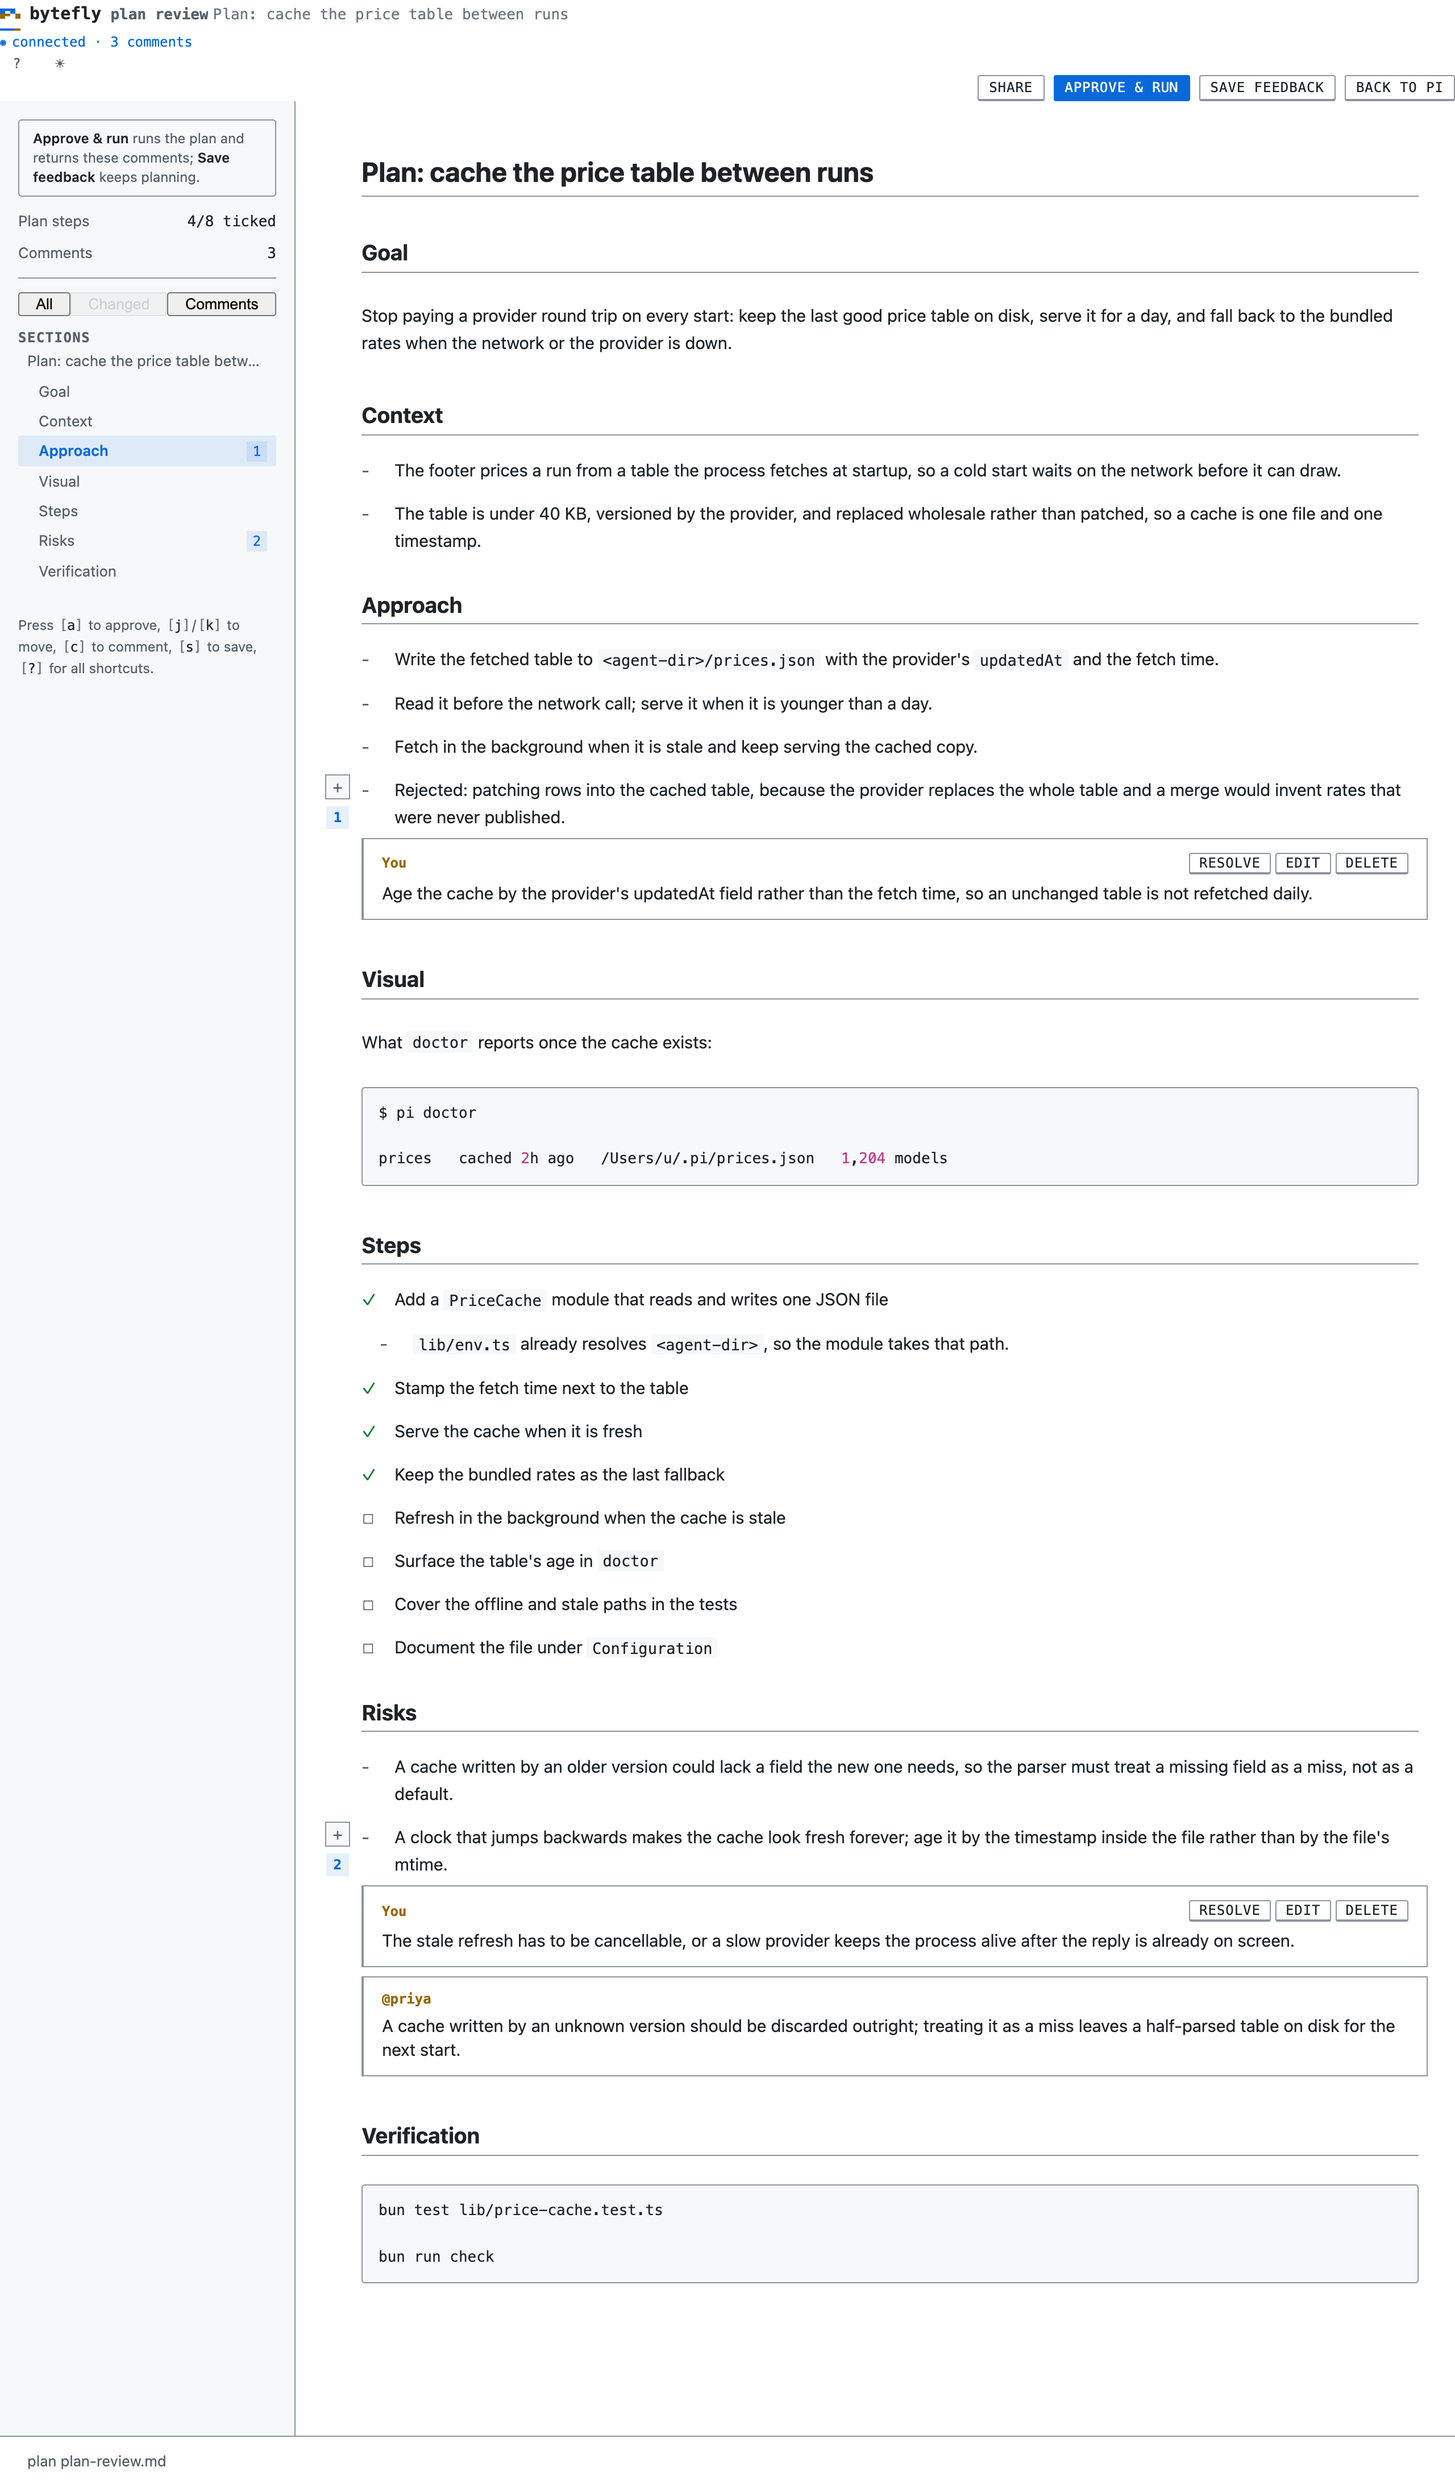
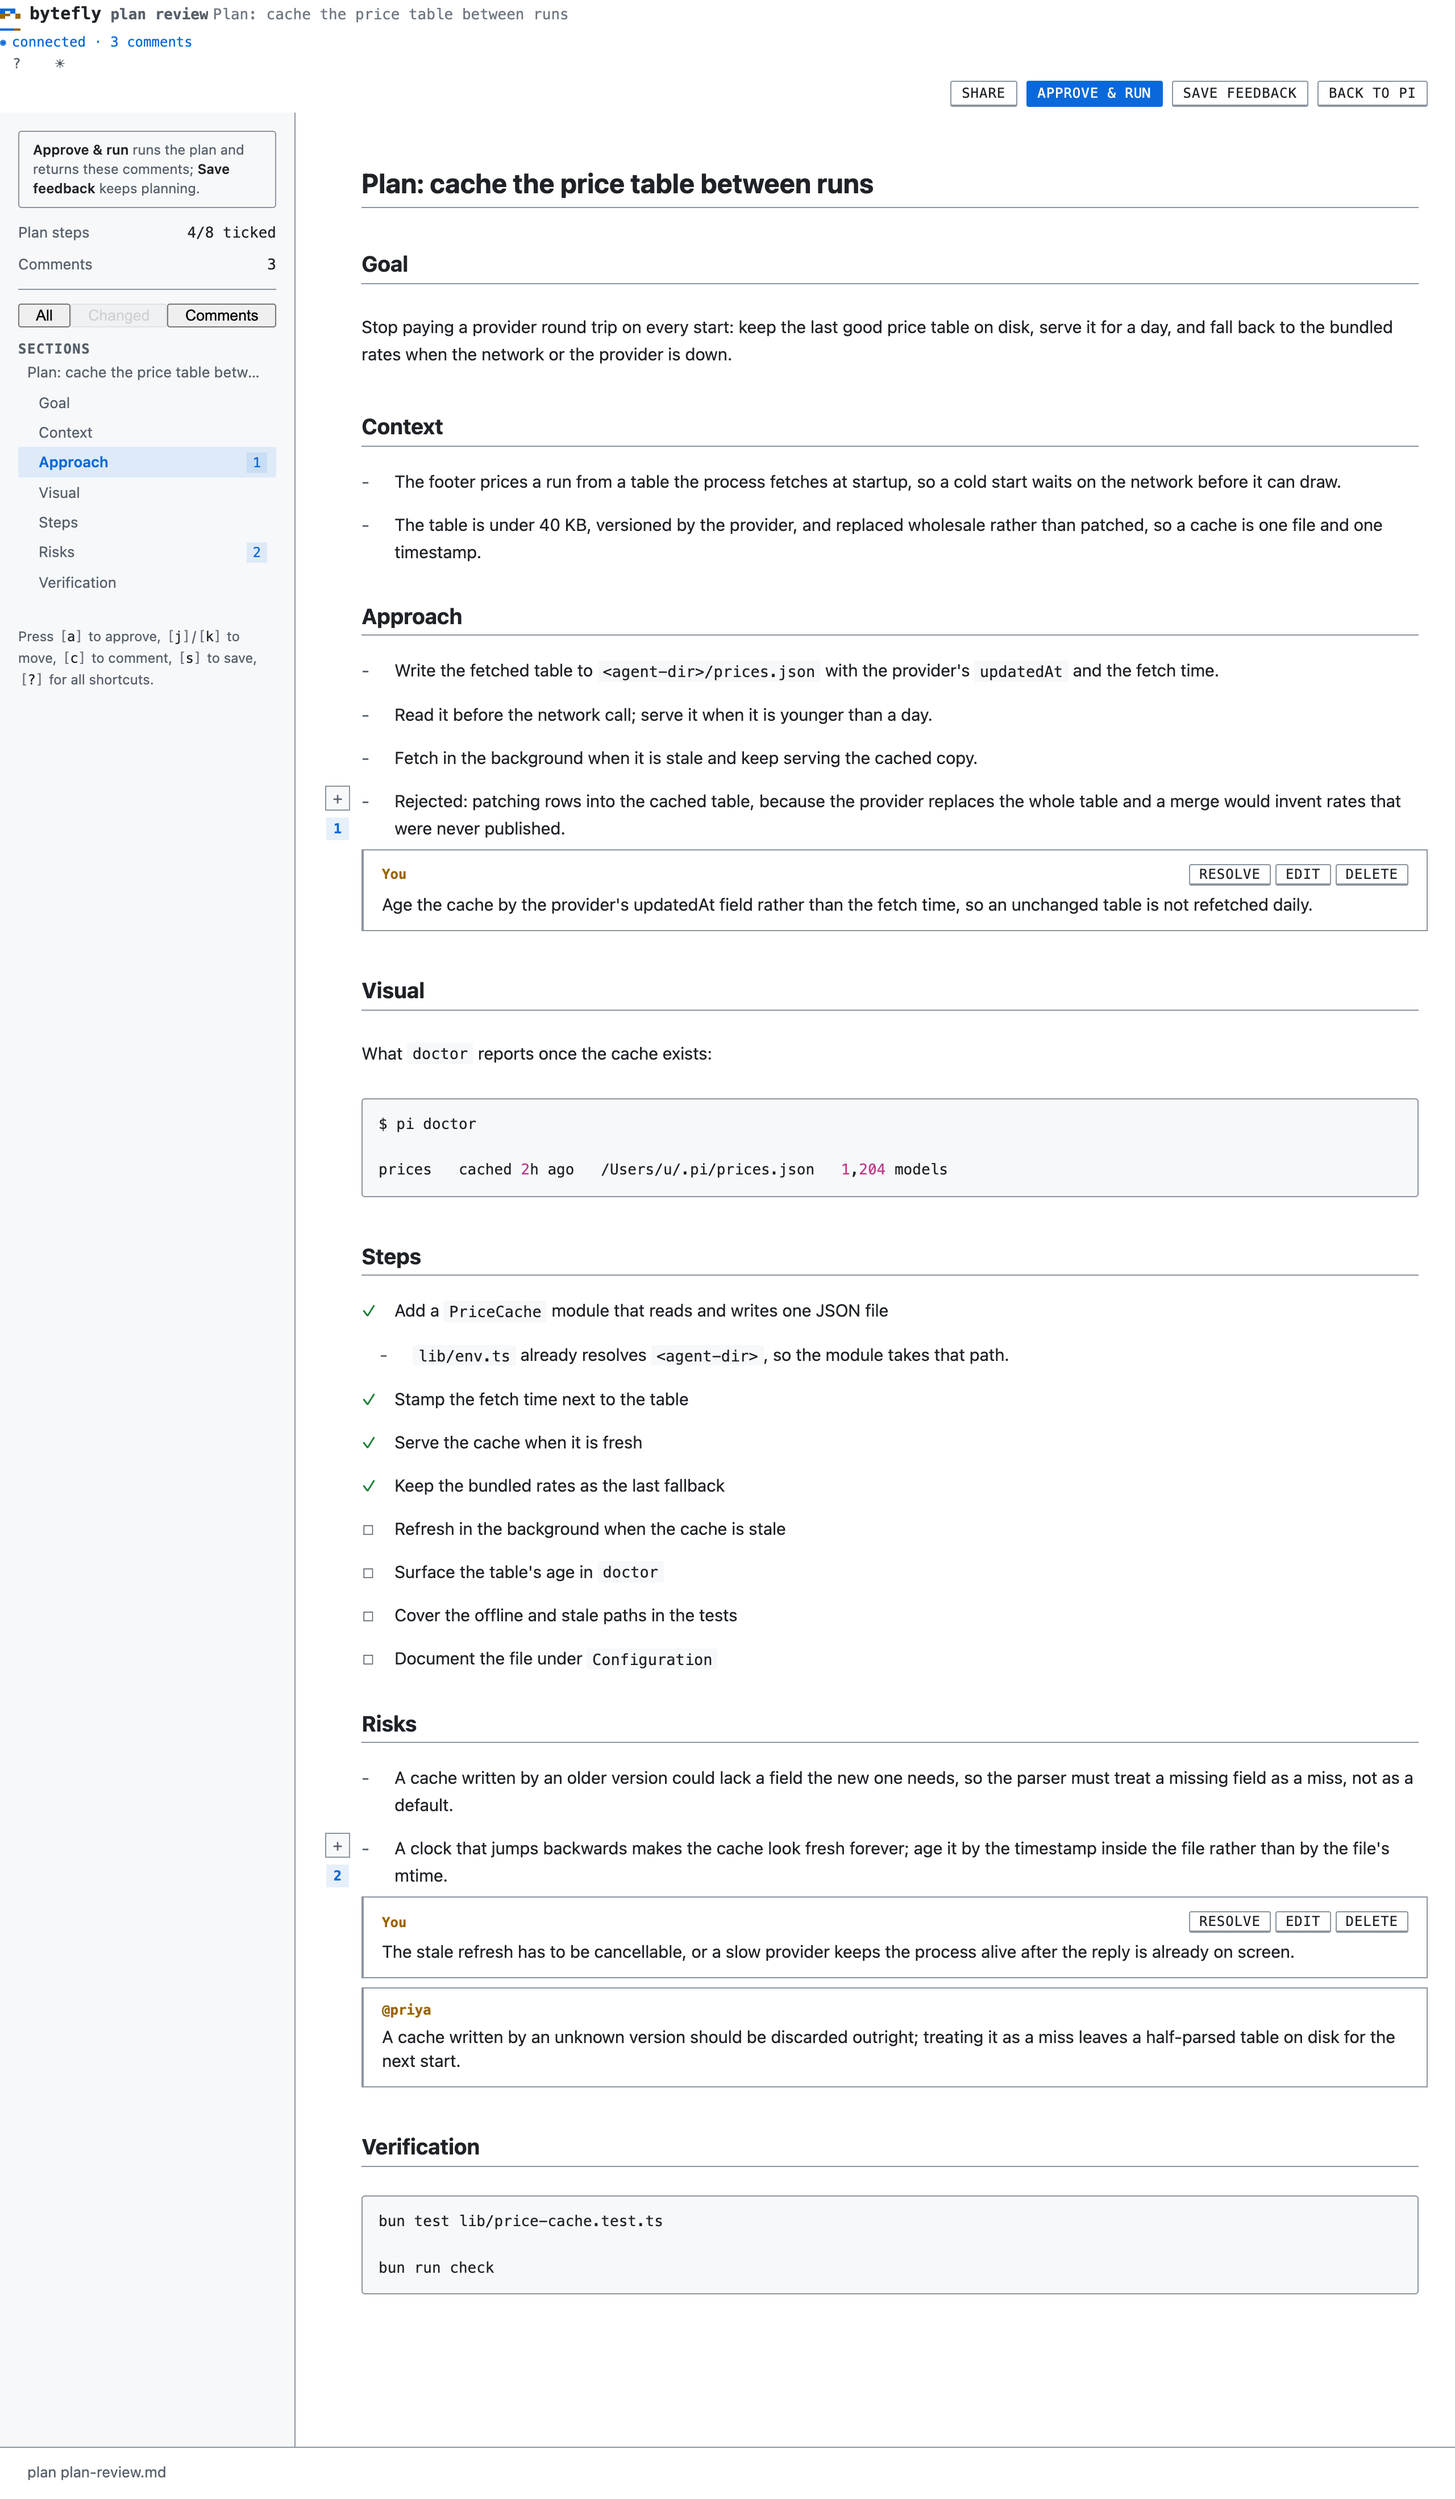
refactor(plan): style the control bar with the shell's own class

diff --git a/extensions/plan/web-page.ts b/extensions/plan/web-page.ts
@@ -345,7 +345,7 @@ ${reviewHints(data.role, data.canApprove)}
 	const controls = `${shareControl}${approveButton}${saveControl}${closeControl}`;
 	// An empty control bar is a rule with nothing above it: a viewer opens no bar at all, which
 	// is also what keeps the page from looking like a review that lost its buttons.
-	const controlBar = controls === "" ? "" : `<div class="bf-app__bar review-actions">${controls}</div>`;
+	const controlBar = controls === "" ? "" : `<div class="bf-app__ctl review-actions">${controls}</div>`;
 	// One name for the page, read from the role: a view is not a review, and the tab, the
 	// toolbar lockup, and the section of the docs that explains it must not disagree.
 	const pageName = isViewer ? "plan view" : "plan review";
